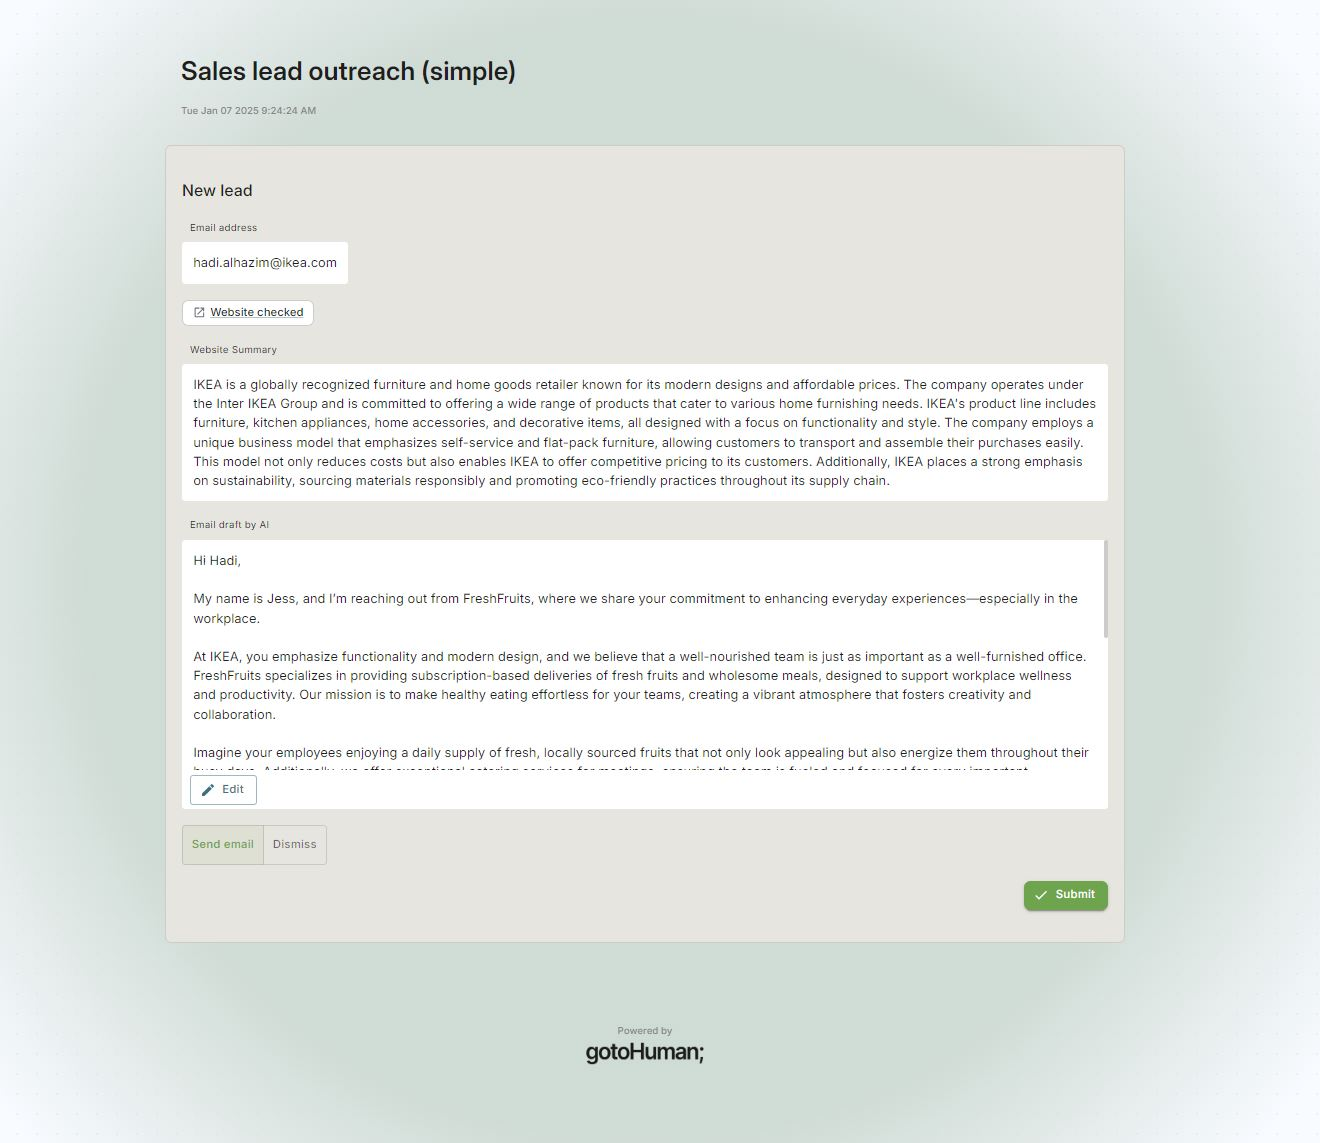
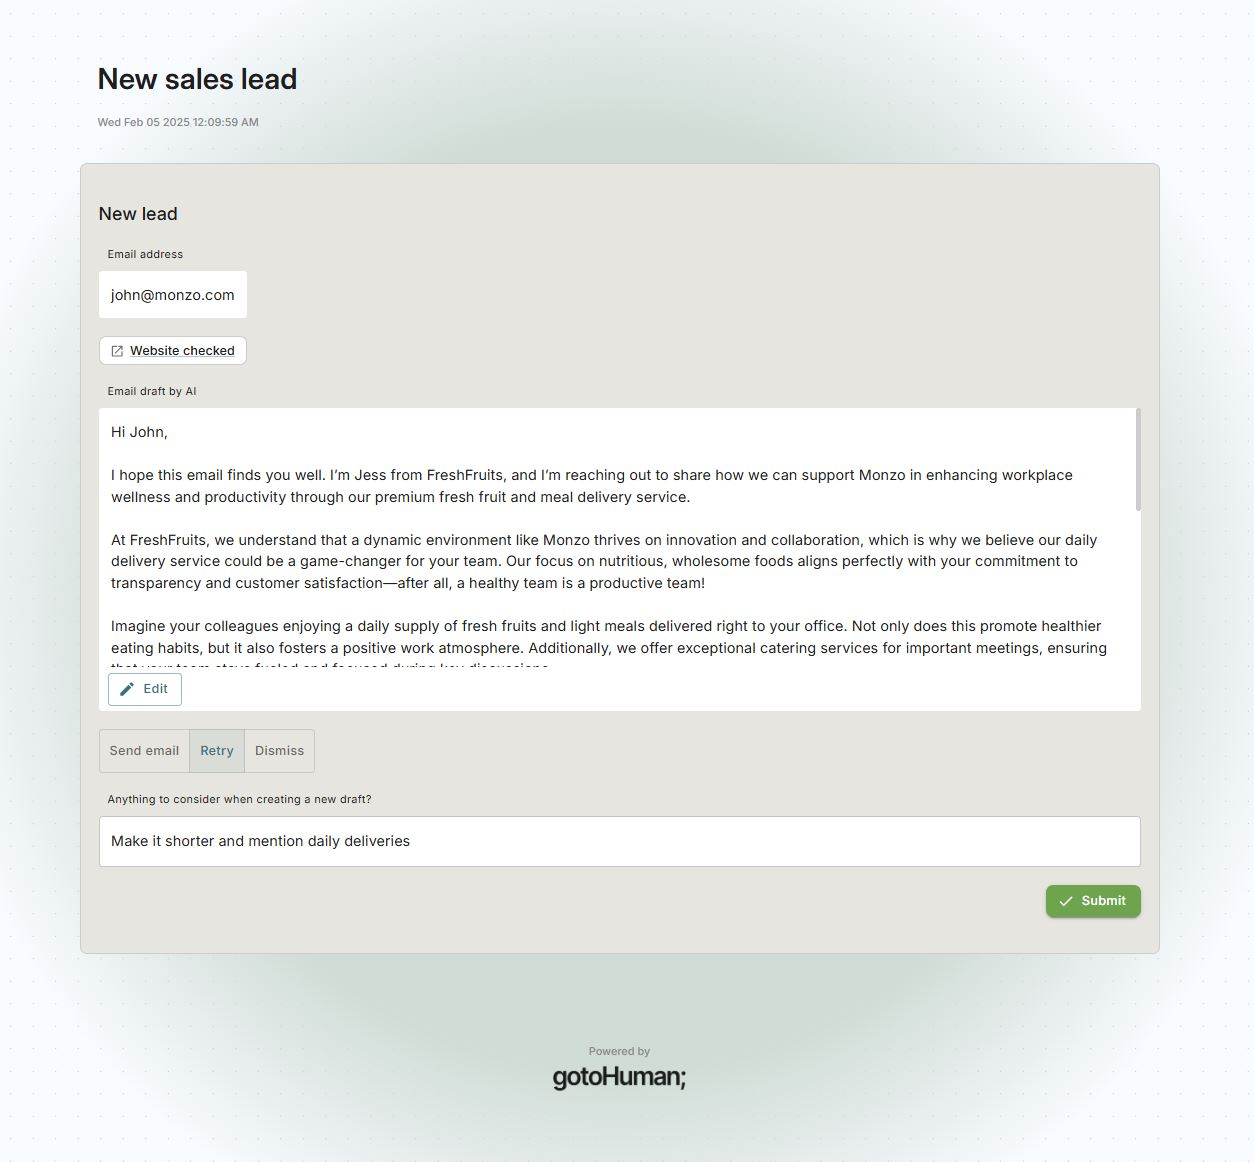
Update example, use interrupt

diff --git a/src/app/api/agent/route.ts b/src/app/api/agent/route.ts
@@ -2,11 +2,11 @@ export const maxDuration = 60;
 export const dynamic = 'force-dynamic';
 
 import { CheerioWebBaseLoader } from "@langchain/community/document_loaders/web/cheerio";
-import { AIMessage, BaseMessage, HumanMessage, SystemMessage, ToolMessage } from "@langchain/core/messages";
+import { AIMessage, BaseMessage, HumanMessage, SystemMessage } from "@langchain/core/messages";
 import { tool } from "@langchain/core/tools";
 import { z } from "zod";
 import { ChatOpenAI } from "@langchain/openai";
-import { StateGraph, START, END } from "@langchain/langgraph";
+import { StateGraph, START, END, Command, interrupt } from "@langchain/langgraph";
 import { Annotation } from "@langchain/langgraph";
 import { PostgresSaver } from "@langchain/langgraph-checkpoint-postgres";
 import { ToolNode } from "@langchain/langgraph/prebuilt";
@@ -23,7 +23,9 @@ export async function POST(request: Request) {
     messages: Annotation<BaseMessage[]>({
       reducer: (x, y) => x.concat(y),
     }),
+    emailAddress: Annotation<string>,
     leadWebsiteUrl: Annotation<string>,
+    emailToSend: Annotation<string>,
   })
   
   // Define the tools for the agent to use
@@ -68,7 +70,7 @@ export async function POST(request: Request) {
       You will write an email for ${senderName} who wants to reach out to a new prospect who left their email address: ${emailAddress} . ${senderName} works for the following company:
       ${senderCompanyDesc}
       Write no more than 300 words.
-      ${!noDomain ? 'It must be tailored as much as possible to the prospect\'s company based on the website information we fetched. Don\'t mention that we got the information from the website.' : ''}`),
+      ${!noDomain ? 'It must be tailored as much as possible to the prospect\'s company based on the website information we fetched. Don\'t mention that we got the information from the website. Include no placeholders! Your response should be nothing but the pure email body!' : ''}`),
       new HumanMessage((noDomain ? `No additional information found about the prospect` : `#Company website summary:
       ${companyDescription}`)),
     ];
@@ -84,66 +86,21 @@ export async function POST(request: Request) {
       companyDescription: z.string().describe("A description of the company based on the content found on its website."),
     }),
   });
-
-  // eslint-disable-next-line @typescript-eslint/no-unused-vars
-  const askHumanTool = tool((_) => {
-    return "The human response will be injected";
-  }, {
-    name: "askHuman",
-    description: "Ask the human for review.",
-    schema: z.object({
-      emailAddress: z.string().describe("The email address of the new lead."),
-      websiteUrl: z.string().describe("The website url derived from the lead email address."),
-      companyDescription: z.string().describe("A description of the company based on the content found on its website."),
-      emailDraft: z.string().describe("A draft for a sales email that needs human review."),
-    }),
-  });
-
-  const sendEmailTool = tool(({emailRecipient, emailBody}) => {
-    // TODO: implement email sending.
-    // Again, note that you can set up your form at gotoHuman with any webhook URL, so that a submitted review can trigger any HTTP endpoint you like to proceed your workflow. It doesn't have to go back to this app.
-    return `The email was sent to ${emailRecipient}: ${emailBody.slice(0,50)}`;
-  }, {
-    name: "sendEmail",
-    description: "Send an email.",
-    schema: z.object({
-      emailRecipient: z.string().describe("The email address to send to."),
-      emailBody: z.string().describe("The email body to send."),
-    }),
-  });
   
-  const tools = [webScrapeTool, summarizerTool, draftTool, sendEmailTool];
+  const tools = [webScrapeTool, summarizerTool, draftTool];
   const toolNode = new ToolNode(tools);
   
-  const model = new ChatOpenAI({ temperature: 0.25, model: "gpt-4o-mini" }).bindTools([...tools, askHumanTool]);
+  const model = new ChatOpenAI({ temperature: 0.25, model: "gpt-4o-mini" }).bindTools(tools);
   
   // Define the function that determines whether to continue or not
-  // We can extract the state typing via `StateAnnotation.State`
-  async function shouldContinue(state: typeof StateAnnotation.State): Promise<"tools" | "askHuman" | typeof END> {
+  async function determineNextNode(state: typeof StateAnnotation.State): Promise<"tools" | "askHuman"> {
     const lastMessage = state.messages[state.messages.length - 1];
     const castLastMessage = lastMessage as AIMessage;
-    // If there is no function call, then we finish
+    // If there are no tool calls, then we go to next node for human approval
     if (castLastMessage && !castLastMessage.tool_calls?.length) {
-      return END;
-    }
-    console.log("shouldContinue toolCall", castLastMessage.tool_calls?.[0])
-    // If tool call is askHuman, we return that node
-    // Send a review request to gotoHuman
-    if (castLastMessage.tool_calls?.[0]?.name === "askHuman") {
-      console.log("--- ASKING HUMAN ---")
-      const args = castLastMessage.tool_calls?.[0]?.args
-      const reviewRequest = gotoHuman.createReview(process.env.GOTOHUMAN_FORM_ID)
-        .addFieldData("email", args?.emailAddress)
-        .addFieldData("emailDomain", {url: args?.websiteUrl || "", label: "Website checked"})
-        .addFieldData("websiteSummary", args?.companyDescription)
-        .addFieldData("emailDraft", args?.emailDraft)
-        .addMetaData("threadId", threadId)
-        // .assignToUsers(["jess@acme.org"])
-      const gotoHumanResponse = await reviewRequest.sendRequest()
-      console.log("gotoHumanResponse", gotoHumanResponse)
       return "askHuman";
     }
-    // Otherwise if it isn't, we continue with the action node
+    // Otherwise, we process the tool call
     return "tools";
   }
   
@@ -157,73 +114,86 @@ export async function POST(request: Request) {
     return { messages: [response] };
   }
 
-  async function extractDomainStep() {
-    const url = extractDomain(req.email)
-    console.log("extractDomainStep " + url)
-    return { leadWebsiteUrl: url, messages: [new HumanMessage(`We got the email address of a new lead: ${req.email}. ${url ? (`Scrape the website of its' domain: ${url} . Then use the summarizer tool to describe it.`) : ""} Then write an outreach email and finally pass all information and the draft to a human to review it. If the reviewer accepts it, send the email. Note that the reviewer might have edited it.`)] }
+  async function extractDomainNode(state: typeof StateAnnotation.State) {
+    const url = extractDomain(state.emailAddress)
+    console.log("extractDomainNode " + url)
+    return { leadWebsiteUrl: url, messages: [new HumanMessage(`We got the email address of a new lead: ${state.emailAddress}. ${url ? (`Scrape the website of its' domain: ${url} . Then use the summarizer tool to describe it.`) : ""} Then write an outreach email.`)] }
   }
 
-  // We define a fake node to ask the human
-  function askHuman(state: typeof StateAnnotation.State): Partial<typeof StateAnnotation.State> {
-    return state;
+  function humanReviewNode(state: typeof StateAnnotation.State): Command {
+    const emailDraft = state?.messages?.length ? state.messages[state.messages.length - 1].content : ""
+    const result = interrupt({
+      emailDraft: emailDraft,
+    });
+    const { response, reviewedEmail, comment } = result;
+  
+    if (response === "retry") {
+      return new Command({ goto: "agent", update: { messages: [{role: "human", content: "Please regenerate the email draft and consider the following: " + comment}] } });
+    } else if (response === "approve") {
+      return new Command({ goto: "sendEmail", update: { emailToSend: reviewedEmail } });
+    }
+    return new Command({ goto: END });
   }
+
+  function sendEmailNode(state: typeof StateAnnotation.State) {
+    console.log("sending email to " + state.emailAddress, state.emailToSend.slice(0,50))
+    // TODO: implement email sending.
+    return {};
+  };
   
   // Define a new graph
   const workflow = new StateGraph(StateAnnotation)
-    .addNode("domainStep", extractDomainStep)
+    .addNode("domainStep", extractDomainNode)
     .addNode("agent", callModel)
     .addNode("tools", toolNode)
-    .addNode("askHuman", askHuman)
+    .addNode("askHuman", humanReviewNode, {ends:["agent", "sendEmail", END]})
+    .addNode("sendEmail", sendEmailNode)
     .addEdge(START, "domainStep")
     .addEdge("domainStep", "agent")
-    .addConditionalEdges("agent", shouldContinue)
+    .addConditionalEdges("agent", determineNextNode, ["askHuman", "tools"])
     .addEdge("tools", "agent")
-    .addEdge("askHuman", "agent");
+    .addEdge("sendEmail", END);
   
   // Initialize DB to persist state of the conversation thread between graph runs
   const checkpointer = PostgresSaver.fromConnString(process.env.POSTGRES_CONN_STRING!);
-  if (!req.meta?.threadId) //if this is already a response we don't need to setup again
+  if (!req.meta?.threadId) //if this is already a response from gotoHuman we don't need to setup again
     await checkpointer.setup();
   
-  // Finally, we compile it!
-  // This compiles it into a LangChain Runnable.
-  // Note that we're (optionally) passing the memory when compiling the graph
-  const app = workflow.compile({ checkpointer, interruptBefore: ["askHuman"] });
-  const appConfig = { configurable: { thread_id: threadId } }
+  const graph = workflow.compile({ checkpointer });
+  const config = { configurable: { thread_id: threadId } }
 
-  // we were called again with the review response from gotoHuman
-  // NOTE: You can set up your form at gotoHuman with any webhook URL, so that a submitted review can trigger any HTTP endpoint you like to proceed your workflow. It doesn't have to go back to this app.
-  if (req.responseValues) {
-    const accepted = req.responseValues.emailApproval?.value === 'approve'
+  if (req.type === 'review') {
+    // we were called again with the review response from gotoHuman
+
+    const approval = req.responseValues.emailApproval?.value
     const emailText = req.responseValues.emailDraft?.value;
-    const emailTextChanged = req.responseValues.emailDraft?.wasEdited;
-    console.log(`GTH accepted ${accepted} emailTextChanged ${emailTextChanged} emailText ${emailText.slice(0,50)}`)
-    const currentState = await app.getState(appConfig);
-    const currentMessages = currentState?.values?.messages
-    console.log("currentState.values.messages", currentMessages)
-    if (!currentMessages) return new Response("Couldn't load persisted thread with ID " + req.meta?.threadId, { status: 404 })
-    const askHumanToolCallId = currentState.values.messages[currentState.values.messages.length - 1].tool_calls[0].id;
+    const retryComment = req.responseValues.retryComment?.value;
+    console.log(`GTH approval ${approval} emailText ${emailText.slice(0,50)} retryComment ${retryComment}`)
 
-    // We now create the tool call with the id and the response we want
-    const toolMessage = new ToolMessage({
-      tool_call_id: askHumanToolCallId,
-      content: `The human supervisor ${accepted ? 'accepted' : 'rejected'} the drafted email. ${accepted && emailTextChanged ? `The text was edited, so please send this edited text instead: ${emailText}` : ''}`
-    });
-    // We now update the state
-    // Notice that we are also specifying `asNode: "askHuman"`
-    // This will apply this update as this node,
-    // which will make it so that afterwards it continues as normal
-    await app.updateState(appConfig, { messages: [toolMessage] }, "askHuman");
-    
-    console.log("--- State after update ---")
-    console.log(await app.getState(appConfig));
+    await graph.invoke(new Command({ resume: { response: approval, reviewedEmail: emailText, comment: retryComment } }), config);
+  } else if (req.type === 'trigger' || req.email) {
+    // we were called by the gotoHuman trigger or by another request including an email
+    const email = req.email || req.responseValues?.email?.value || "";
+
+    const inputs = { emailAddress: email };
+    await graph.invoke(inputs, config);
   }
 
-  // Use the Runnable
-  const finalState = await app.invoke(req.responseValues ? null : {}, appConfig);
-  const finalMsg = finalState?.messages?.length ? finalState.messages[finalState.messages.length - 1] : ""
-  console.log(finalMsg.content);
-  return Response.json({"answer": finalMsg.content, "domain": finalState.leadWebsiteUrl})
+  const state = await graph.getState(config);
+  if (state.next.length > 0 && state.next[0] === "askHuman") {
+    const dataFromInterrupt = state.tasks?.[0]?.interrupts?.[0]?.value
+    const reviewRequest = gotoHuman.createReview(process.env.GOTOHUMAN_FORM_ID)
+      .addFieldData("email", state.values?.emailAddress || "")
+      .addFieldData("emailDomain", {url: state.values?.leadWebsiteUrl || "", label: "Website checked"})
+      .addFieldData("emailDraft", dataFromInterrupt?.emailDraft)
+      .addMetaData("threadId", threadId)
+      // .assignToUsers(["jess@acme.org"])
+    const gotoHumanResponse = await reviewRequest.sendRequest()
+    console.log("gotoHumanResponse", gotoHumanResponse)
+    return Response.json({message: "The email draft needs human review.", link: gotoHumanResponse.gthLink}, {status: 200})
+  }
+  console.log("graph ended")
+  return Response.json({message: "Graph ended"}, {status: 200})
 }
 
 function extractDomain(email: string) {

diff --git a/README.md b/README.md
@@ -2,18 +2,19 @@
 
 An AI agent [built with LangGraph](https://langchain-ai.github.io/langgraphjs/) integrating [gotoHuman](https://gotohuman.com) to keep a **human in the loop**.
 
-[gotoHuman](https://gotohuman.com) helps you build production-ready AI workflows by making it really easy to include human approvals. Keep a human in the loop to review AI‑generated content, approve critical actions or provide input.  
-Set up a fully customized review step capturing any relevant data (text, images, markdown,...) and required human input (buttons, checkboxes, inputs,...). Then trigger it from your application whenever human review from your team is needed.
+[gotoHuman](https://gotohuman.com) provides you with a central dashboard to review AI‑generated content, approve critical actions or provide input. And it seamlessly integrates with the AI stack of your choice.  
 
-This example workflow uses our JS/TS SDK to [send requests](https://docs.gotohuman.com/send-requests) for human review.
+This example workflow uses our [Typescript SDK](https://github.com/gotohuman/gotohuman-js-sdk).
 
-Trigger it with the email address of a new lead (from a waitlist, newsletter signup or lead magnet) to draft a personalized initial email outreach that is reviewed by a human before it is sent out.
+It takes the email address of a new sales lead and drafts a personalized initial email outreach. The draft is reviewed and revised by a human before it gets sent out.
 
 ## Set it up
 
 ### Create a review form
 
-This example uses our **"Sales Lead (Simple)"** template which contains just the right fields for our use case. Select it when [creating a new review form](https://app.gotohuman.com/create). For the webhook, enter the URL where you deploy this app. It is called for each review response to continue the workflow.  
+In gotoHuman, you can simply import the form template used here with the ID `OmmAnhbnWmird3oz60q2`.  
+For the webhook, enter the URL where you deploy this app. It is called for each review response to resume your graph.  
+
 Reviewers will find new pending reviews in their [gotoHuman inbox](https://app.gotohuman.com). You can also opt-in to receive a short-lived public link that you can freely send to reviewers.
 
 ### Deploy this agent
@@ -29,8 +30,12 @@ POSTGRES_CONN_STRING="postgres://..."
 
 ### Run it
 
-Trigger your agent whenever you get your hands on a new lead:
+Trigger your agent whenever you get your hands on a new email address:
 
+#### Manually in gotoHuman
+Create a new trigger form with a text input field with ID `email` and include the same webhook as above. You'll see a trigger button appear in gotoHuman.
+
+#### Via API
 `HTTP POST [DEPLOY_URL]/api/agent`
 ```json
 {
